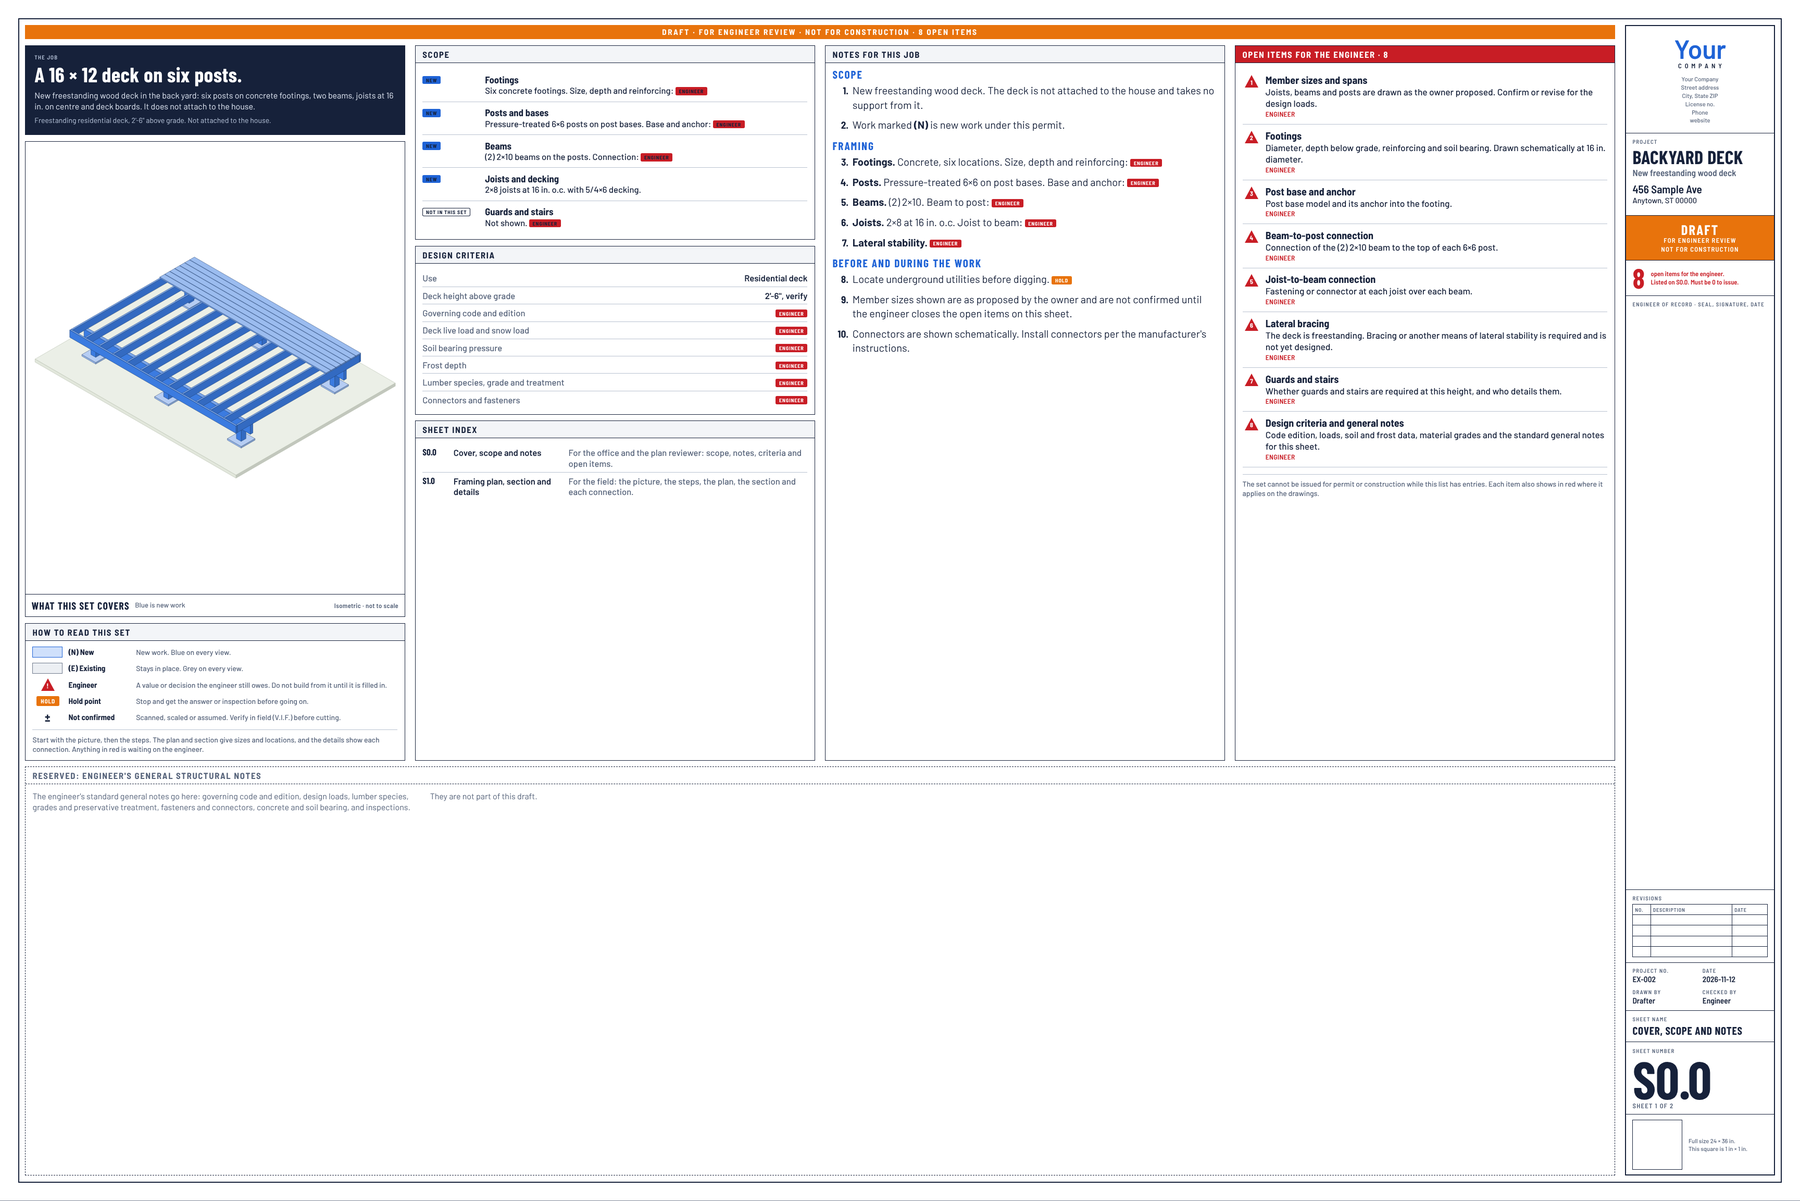
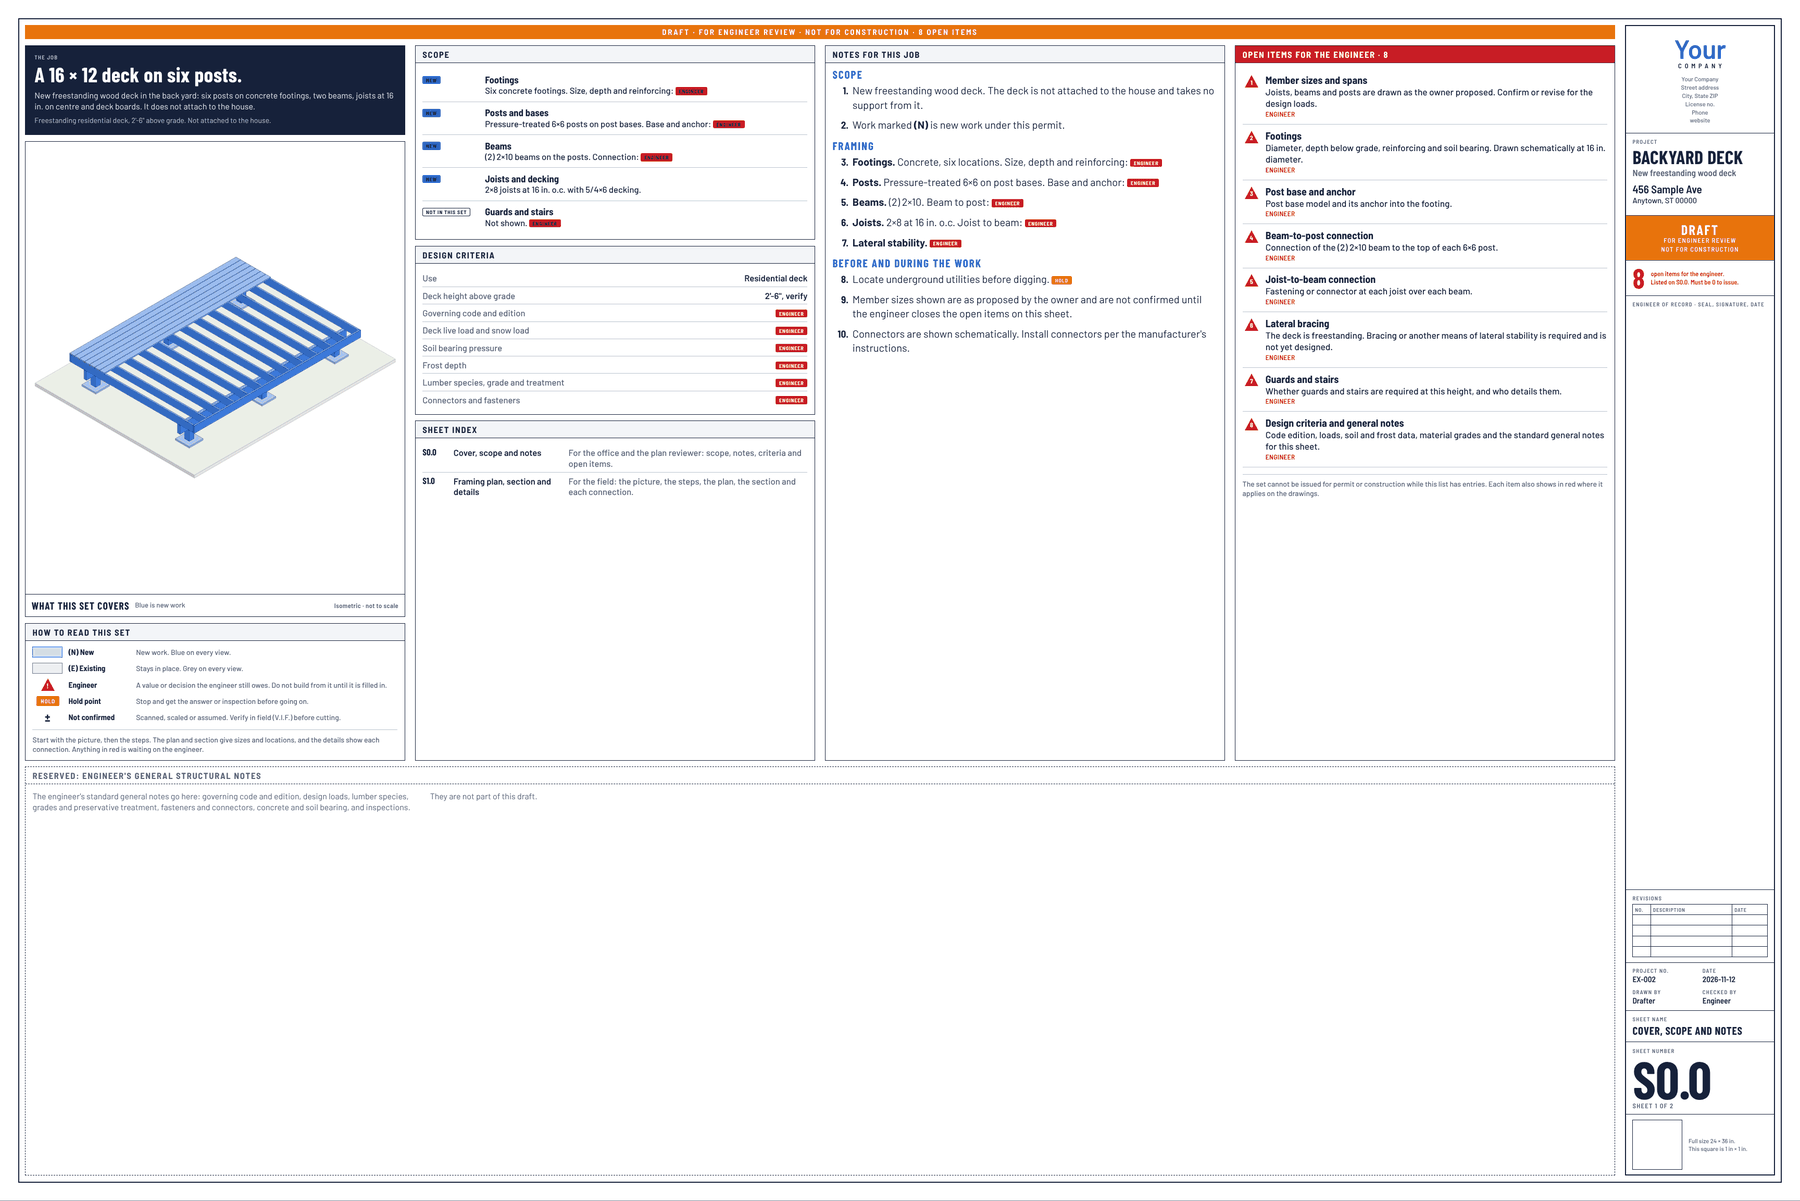
Fix the mirrored isometric picture
Iso.p sent +x to the right. With the viewer at +x, +y, +z, +x runs to
the left and +y to the right, so every picture was a mirror image of the
job. Iso.p is now [(y - x) * 0.866, (x + y) / 2 - z].

The label elbows in views/deck.js and views/sunroom.js are mirrored to
match (elbow x negated, text side swapped), and writing-views.md gives
the corrected formula. The finished sunroom example carries its own
override of Iso.p with the same formula, so its sheets are unchanged
(byte-identical renders before and after).

The deck previews are regenerated. Tests: the picture is not mirrored,
and the public deck project file stays identical to the bundled one.

Claude-Session: https://claude.ai/code/session_014sCv32j8wv1y5t9MGfhTBW

Changed region(s): [[0.0311, 0.2157, 0.2178, 0.4005], [0.9333, 0.1848, 0.9644, 0.2157]]

diff --git a/skills/oasis-blueprints/assets/views/deck.js b/skills/oasis-blueprints/assets/views/deck.js
@@ -137,16 +137,16 @@ const JOB = {
   type: 'deck',
   derive,
   picture: (P, G, o) => isoScene(P, G, o),
-  // Label elbows are in the picture's screen units: [(x - y) * 0.866, (x + y) / 2 - z]. They are worked out from the deck size,
+  // Label elbows are in the picture's screen units: [(y - x) * 0.866, (x + y) / 2 - z]. They are worked out from the deck size,
   // and sit above and below the object (not beside it), so the picture can fill the width of its panel.
   labels(P, G, iso) {
     const g = P.geometry, L = g.L, D = g.D, pad = I(20), foot = answer(P, 'footing'), yb = g.beamY[g.beamY.length - 1];
-    const left = -(D + pad) * 0.866, right = (L + pad) * 0.866, fx = (L - D) * 0.866, fy = (L + D) / 2 + pad, top = -g.deckH - I(18);   // edges of the scene
-    iso.label(`(N) ${g.deckingName} DECKING`, [L * 0.3, D * 0.1, g.deckH], left * 0.15, top, { kind: 'N', side: 'l' });
-    iso.label(`(N) ${g.joistName} JOISTS @ ${FMT(g.joistSpacing)} O.C.`, [G.joists[Math.floor(G.joists.length * 0.6)], D * 0.42, G.zJoistTop], right * 0.33, top, { kind: 'N', side: 'r' });
-    iso.label(`(N) ${g.postName} POSTS (${G.posts.length})`, [g.postsX[0], yb + g.post / 2, G.zPostTop / 2], left * 0.92, fy * 0.8, { kind: 'N', side: 'r' });
-    iso.label(foot ? '(N) CONCRETE FOOTINGS' : 'FOOTINGS: SIZE BY ENGINEER', [g.postsX[1], yb + g.footingDia / 2, I(1)], left * 0.5, fy + I(9), { kind: foot ? 'N' : 'R', side: 'r' });
-    iso.label(`(N) ${g.beamName} BEAMS`, [L, yb, G.zBeamTop - g.beamDepth / 2], fx + I(40), fy + I(14), { kind: 'N', side: 'r' });
+    const left = -(L + pad) * 0.866, right = (D + pad) * 0.866, fx = (D - L) * 0.866, fy = (L + D) / 2 + pad, top = -g.deckH - I(18);   // edges of the scene
+    iso.label(`(N) ${g.deckingName} DECKING`, [L * 0.3, D * 0.1, g.deckH], right * 0.15, top, { kind: 'N', side: 'r' });
+    iso.label(`(N) ${g.joistName} JOISTS @ ${FMT(g.joistSpacing)} O.C.`, [G.joists[Math.floor(G.joists.length * 0.6)], D * 0.42, G.zJoistTop], left * 0.33, top, { kind: 'N', side: 'l' });
+    iso.label(`(N) ${g.postName} POSTS (${G.posts.length})`, [g.postsX[0], yb + g.post / 2, G.zPostTop / 2], right * 0.92, fy * 0.8, { kind: 'N', side: 'l' });
+    iso.label(foot ? '(N) CONCRETE FOOTINGS' : 'FOOTINGS: SIZE BY ENGINEER', [g.postsX[1], yb + g.footingDia / 2, I(1)], right * 0.5, fy + I(9), { kind: foot ? 'N' : 'R', side: 'l' });
+    iso.label(`(N) ${g.beamName} BEAMS`, [L, yb, G.zBeamTop - g.beamDepth / 2], fx - I(40), fy + I(14), { kind: 'N', side: 'l' });
   },
   stepPicture: (P, G, step, k) => isoScene(P, G, { den: Math.ceil((P.geometry.L + P.geometry.D + I(40)) * 0.866 / UPI / 2.9), id: 'st' + k, quiet: true, mode: Object.assign({ deckAs: 'new' }, STEP_PICTURES[step.pic] || STEP_PICTURES.all) }).svg(),
   field: {

diff --git a/skills/oasis-blueprints/assets/views/sunroom.js b/skills/oasis-blueprints/assets/views/sunroom.js
@@ -220,14 +220,14 @@ const JOB = {
   type: 'sunroom',
   derive,
   picture: (P, G, o) => isoScene(P, G, o),
-  // Label elbows are in the picture's own screen units (see Iso.p). This scene spans about -139..249 by -138..211.
+  // Label elbows are in the picture's own screen units (see Iso.p). This scene spans about -249..139 by -138..211.
   labels(P, G, iso) {
     const g = P.geometry, h = g.post / 2;
-    iso.label(`(N) 2×8 RAFTERS @ ${g.rafterSpacing}" O.C.\nSIMPSON H2.5A EACH END`, [G.rafters[8], 20, G.rb(20) + g.rafterDepth], 64, -118, { kind: 'N', side: 'r' });
-    iso.label('(E) RESIDENCE', [40, 0, 112], -42, -130, { side: 'l' });
-    iso.label('(E) (2) 2×8 BEAMS, 3 SIDES\nKEEP. CHECK FOR ROT / WDO', [G.xl, G.yo + 1.5, G.bt - 4], -172, 150, { side: 'r' });
-    iso.label(`(N) PT 4×4 COLUMNS (${G.cols.length})\nON SIMPSON ABU44Z BASES`, [G.longX[2], G.yo + h, 30], -10, 222, { kind: 'N', side: 'r' });
-    iso.label('(E) CONCRETE SLAB', [240, 100, 0], 158, 202, { side: 'r' });
+    iso.label(`(N) 2×8 RAFTERS @ ${g.rafterSpacing}" O.C.\nSIMPSON H2.5A EACH END`, [G.rafters[8], 20, G.rb(20) + g.rafterDepth], -64, -118, { kind: 'N', side: 'l' });
+    iso.label('(E) RESIDENCE', [40, 0, 112], 42, -130, { side: 'r' });
+    iso.label('(E) (2) 2×8 BEAMS, 3 SIDES\nKEEP. CHECK FOR ROT / WDO', [G.xl, G.yo + 1.5, G.bt - 4], 172, 150, { side: 'l' });
+    iso.label(`(N) PT 4×4 COLUMNS (${G.cols.length})\nON SIMPSON ABU44Z BASES`, [G.longX[2], G.yo + h, 30], 10, 222, { kind: 'N', side: 'l' });
+    iso.label('(E) CONCRETE SLAB', [240, 100, 0], -158, 202, { side: 'l' });
   },
   stepPicture: (P, G, step, k) => isoScene(P, G, Object.assign({ den: 128, id: 'st' + k, quiet: true }, STEP_PICTURES[step.pic] || STEP_PICTURES.all)).svg(),
   field: {

diff --git a/skills/oasis-blueprints/assets/kit/kit.js b/skills/oasis-blueprints/assets/kit/kit.js
@@ -164,7 +164,7 @@ function libSvg(D, o = {}) {
   return v.svg();
 }
 
-// ---- isometric (30° axonometric). x runs right-down, y runs left-down, z is up. Viewer sits at +x, +y, +z. ----
+// ---- isometric (30° axonometric). x runs left-down, y runs right-down, z is up. Viewer sits at +x, +y, +z. ----
 function shade(hex, f) { // f > 0 lightens toward white, f < 0 darkens toward black
   const n = parseInt(hex.slice(1), 16), c = [n >> 16, (n >> 8) & 255, n & 255].map(v => Math.round(f >= 0 ? v + (255 - v) * f : v * (1 + f)));
   return '#' + c.map(v => v.toString(16).padStart(2, '0')).join(''); }
@@ -172,7 +172,7 @@ function shade(hex, f) { // f > 0 lightens toward white, f < 0 darkens toward bl
 class Iso {
   constructor(den, id) { this.den = den; this.id = id; this.u = den * UPI / 72; this.items = []; this.over = []; }
   pt(n) { return n * this.u; }
-  p(x, y, z) { return [(x - y) * 0.8660254, (x + y) * 0.5 - z]; }
+  p(x, y, z) { return [(y - x) * 0.8660254, (x + y) * 0.5 - z]; }
   // box or sloped prism: zb / zt may be numbers or functions of y. order = paint layer; within a layer far paints first.
   solid(x0, x1, y0, y1, zb, zt, color, o = {}) { this.items.push({ k: 's', x0, x1, y0, y1, zb, zt, color, order: o.order || 0, key: (x0 + x1 + y0 + y1) / 2, o }); return this; }
   quad(pts, color, o = {}) { this.items.push({ k: 'q', pts, color, order: o.order || 0, key: pts.reduce((a, p) => a + p[0] + p[1], 0) / pts.length, o }); return this; }

diff --git a/tests/test_blueprints.py b/tests/test_blueprints.py
@@ -127,6 +127,17 @@ class BlueprintTests(unittest.TestCase):
         pages = {p.stem for p in (folder / "types").glob("*.md")} - {"README"}
         self.assertEqual(pages, {Path(g["file"]).stem for g in index["groups"]})
 
+    def test_isometric_picture_is_not_mirrored(self):
+        # The viewer sits at +x, +y, +z, so +x must run to the left on screen and +y to the right.
+        self.open(self.build(self.sample()))
+        x, y = self.page.evaluate("[new Iso(48, 't').p(10, 0, 0)[0], new Iso(48, 't').p(0, 10, 0)[0]]")
+        self.assertLess(x, 0)
+        self.assertGreater(y, 0)
+
+    def test_public_deck_example_matches_the_bundled_one(self):
+        public = SKILL.parents[1] / "examples" / "sheet-sets" / "deck" / "project.json"
+        self.assertEqual(public.read_bytes(), (SKILL / "assets" / "examples" / "deck" / "project.json").read_bytes())
+
     def test_imperial_and_metric_plan_have_same_physical_scale(self):
         imperial = self.sample()
         metric = copy.deepcopy(imperial)

diff --git a/skills/oasis-blueprints/references/writing-views.md b/skills/oasis-blueprints/references/writing-views.md
@@ -129,7 +129,7 @@ field sheet, 7.2 in on the cover): the scene is about `(length + depth + 4 × gr
 `den = that width in inches / 8.3`. If it is still too big the layout shrinks it to fit, and the audit
 complains only when the labels would get small.
 
-Screen position of a 3D point is `[(x - y) * 0.866, (x + y) / 2 - z]`. Label elbows `(ex, ey)` are in
+Screen position of a 3D point is `[(y - x) * 0.866, (x + y) / 2 - z]`. Label elbows `(ex, ey)` are in
 those screen units. Compute them from the geometry (see `labels` in deck.js), and place labels above
 and below the object rather than beside it, so the picture can use the full width of its box.
 
